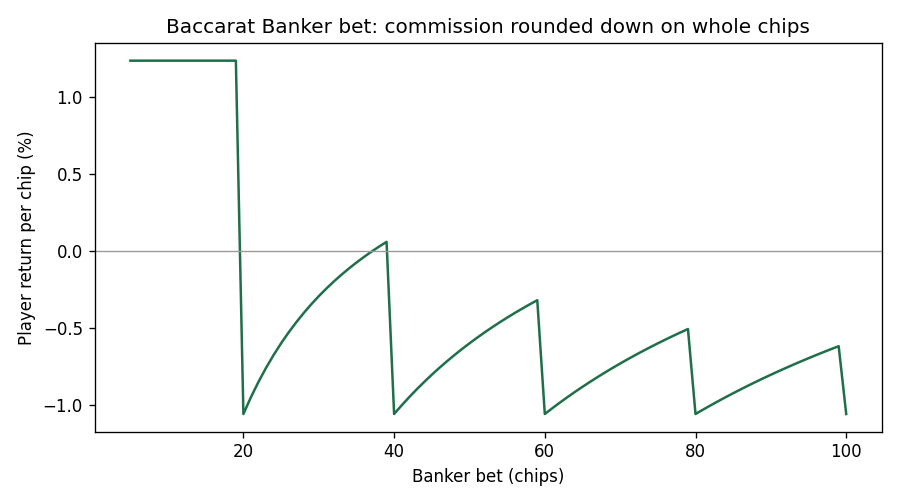
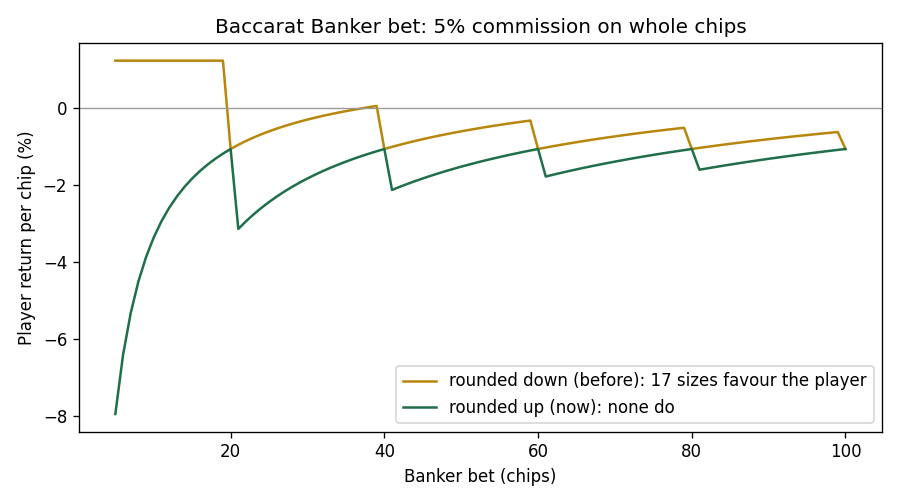
Round the baccarat commission up: no Banker bet favours the player
Rounding the 5% commission down to whole chips made Banker bets of 5-19
chips commission-free (+1.24% to the player, 17 bet sizes in favour). Now
it rounds up; multiples of 20 keep the exact -1.06%. The simulation and
chart compare both roundings, and a test checks every bet size up to 2000.

diff --git a/sim/baccarat_edge.py b/sim/baccarat_edge.py
@@ -8,9 +8,10 @@ drawn without replacement, and the engine's own `player_draws` /
 
 A Monte Carlo run with the engine's `play_hand` checks the enumeration.
 
-Finding: the engine rounds the 5% commission DOWN on whole chips, so on a
-Banker bet of 5 to 19 chips the commission is 0 and the bet favours the
-player. The edge is reported for several bet sizes.
+Finding: an earlier version of the engine rounded the 5% commission DOWN to
+whole chips, so a Banker bet of 5 to 19 chips paid no commission and favoured
+the player. The engine now rounds up; both roundings are reported here and
+plotted against the bet size.
 """
 
 import random
@@ -80,10 +81,15 @@ def outcome_probabilities(decks=DECKS):
     return probs
 
 
-def edges(probs, bet=100):
+def round_down(won):
+    """The old rule, kept for comparison."""
+    return won * BANKER_COMMISSION // 100
+
+
+def edges(probs, bet=100, rule=commission):
     """Expected return per chip bet on each box (negative = house edge)."""
     pp, pb, pt = probs["player"], probs["banker"], probs["tie"]
-    banker_win = (bet - commission(bet)) / bet
+    banker_win = (bet - rule(bet)) / bet
     return {
         # Player and Banker are returned on a tie
         "player": pp - pb,
@@ -110,28 +116,40 @@ def main(mc_hands=200_000):
     probs = outcome_probabilities()
     edge = edges(probs)
     mc = monte_carlo(mc_hands)
-    by_bet = {bet: edges(probs, bet)["banker"] for bet in (5, 10, 19, 20, 25, 50, 100, 1000)}
+    sizes = (5, 10, 19, 20, 25, 39, 50, 100, 1000)
+    by_bet = {bet: edges(probs, bet)["banker"] for bet in sizes}
+    by_bet_old = {bet: edges(probs, bet, round_down)["banker"] for bet in sizes}
+    favoured_old = [b for b in range(5, 2001) if edges(probs, b, round_down)["banker"] > 0]
+    favoured_now = [b for b in range(5, 2001) if edges(probs, b)["banker"] > 0]
 
     print("Baccarat (8 decks, exact):")
     for k in ("banker", "player", "tie"):
         print(f"  P({k}) = {probs[k]:.6f}   Monte Carlo {mc[k]:.4f}   "
               f"return per chip {pct(edge[k], 3)}")
-    print("  Banker return by bet size (commission rounded down):")
-    for bet, e in by_bet.items():
-        print(f"    bet {bet:>5}: {pct(e, 3)}")
+    print("  Banker return by bet size:        rounded up (now)   rounded down (before)")
+    for bet in sizes:
+        print(f"    bet {bet:>5}: {pct(by_bet[bet], 3):>28} {pct(by_bet_old[bet], 3):>18}")
+    print(f"  bet sizes 5-2000 that favour the player: {len(favoured_now)} now,"
+          f" {len(favoured_old)} before")
 
     fig, ax = figure("baccarat_banker_by_bet")
     bets = list(range(5, 101))
-    ax.plot(bets, [100 * edges(probs, b)["banker"] for b in bets], color="#1f6f4a")
+    ax.plot(bets, [100 * edges(probs, b, round_down)["banker"] for b in bets],
+            color="#b8860b", label="rounded down (before): 17 sizes favour the player")
+    ax.plot(bets, [100 * edges(probs, b)["banker"] for b in bets], color="#1f6f4a",
+            label="rounded up (now): none do")
     ax.axhline(0, color="#999", lw=0.8)
     ax.set_xlabel("Banker bet (chips)")
     ax.set_ylabel("Player return per chip (%)")
-    ax.set_title("Baccarat Banker bet: commission rounded down on whole chips")
+    ax.set_title("Baccarat Banker bet: 5% commission on whole chips")
+    ax.legend()
     save(fig)
 
     return save_json("baccarat", {
         "decks": DECKS, "probabilities": probs, "return_per_chip": edge,
-        "banker_return_by_bet": by_bet, "monte_carlo": {"hands": mc_hands, **mc},
+        "banker_return_by_bet": by_bet, "banker_return_by_bet_round_down": by_bet_old,
+        "bet_sizes_favouring_player": {"round_up": favoured_now, "round_down": favoured_old},
+        "monte_carlo": {"hands": mc_hands, **mc},
         "commission_pct": BANKER_COMMISSION, "tie_pays": TIE_PAYOUT,
     })
 

diff --git a/aceroyale/baccarat/rules.py b/aceroyale/baccarat/rules.py
@@ -15,8 +15,8 @@ What you need to know about the game:
     fixed tables.
   - Points: the ace is worth 1, 2 to 9 their face value, the 10 and the face
     cards 0. The hand is worth the last digit of the sum (7 + 8 = 15 -> 5).
-  - Payouts: Player 1:1. Banker 1:1 minus a 5 % commission, rounded down
-    (winning with 100 pays 95). Tie 8:1. On a tie, whatever was bet on Player
+  - Payouts: Player 1:1. Banker 1:1 minus a 5 % commission, rounded up
+    to whole chips (winning with 100 pays 95). Tie 8:1. On a tie, whatever was bet on Player
     and on Banker is returned.
 """
 
@@ -168,8 +168,15 @@ def play_hand(draw):
 # --------------------------------------------------------------- payouts
 
 def commission(won: int) -> int:
-    """5 % of what is won on Banker, rounded down."""
-    return won * BANKER_COMMISSION // 100
+    """
+    5 % of what is won on Banker, rounded UP to whole chips.
+
+    Rounding down made Banker bets of 5 to 19 chips commission-free, and
+    those favoured the player (+1.24 %): betting small on Banker over and over
+    beat the house. Rounded up, no bet size favours the player; on multiples
+    of 20 the 5 % is exact.
+    """
+    return -(-won * BANKER_COMMISSION // 100)
 
 
 def payout(bet: str, amount: int, winner: str) -> int:

diff --git a/tests/test_baccarat.py b/tests/test_baccarat.py
@@ -73,9 +73,18 @@ def test_hands():
 def test_payouts():
     assert payout("player", 100, "player") == 200, "Player 1:1"
     assert payout("banker", 100, "banker") == 195, "Banker 1:1 minus 5%"
-    assert payout("banker", 5, "banker") == 10, \
-        "the commission on 5 rounds down to 0"
-    assert payout("banker", 30, "banker") == 59, "the commission on 30 is 1"
+    assert payout("banker", 5, "banker") == 9, \
+        "the commission on 5 rounds up to 1"
+    assert payout("banker", 30, "banker") == 58, "the commission on 30 is 2"
+    assert payout("banker", 20, "banker") == 39, "on 20 the 5% is exact"
+
+
+def test_no_banker_bet_favours_the_player():
+    # Exact outcome probabilities of an 8-deck shoe (see sim/baccarat_edge.py)
+    p_banker, p_player = 0.458597, 0.446247
+    favoured = [n for n in range(1, 2001)
+                if p_banker * (payout("banker", n, "banker") - n) / n - p_player > 0]
+    assert not favoured, favoured[:10]
     assert payout("tie", 10, "tie") == 90, "Tie 8:1"
     assert payout("player", 50, "tie") == 50, "a tie returns Player"
     assert payout("banker", 50, "tie") == 50, "a tie returns Banker"

diff --git a/README.md b/README.md
@@ -135,7 +135,7 @@ played. `python -m sim.test_sim` checks the simulators against the engine.
 |---|---|---|
 | Blackjack, basic strategy (6 decks, S17, DAS, 3:2) | **-0.42% ± 0.07%** | 10M simulated rounds, 95% CI |
 | Blackjack, same strategy, infinite deck | -0.57% | exact, dynamic programming |
-| Baccarat, Banker (bets of 20+) | **-1.06%** | exact enumeration of the 8-deck shoe |
+| Baccarat, Banker (multiples of 20) | **-1.06%** | exact enumeration of the 8-deck shoe |
 | Baccarat, Player | -1.24% | exact |
 | Baccarat, Tie (8:1) | -14.36% | exact |
 | Three Card Poker, Ante/Play (optimal: play Q-6-4+) | **-3.37%** per Ante | exact, all 22,100 x 18,424 hand pairs |
@@ -143,12 +143,13 @@ played. `python -m sim.test_sim` checks the simulators against the engine.
 
 Two findings from checking the engine's rules rather than textbook ones:
 
-- **Baccarat commission rounding is exploitable.** The 5% commission is
-  rounded down to whole chips, so a Banker bet of 5 to 19 chips pays no
-  commission at all and returns **+1.24%** to the player. Above that the edge
-  saw-tooths with every whole chip of commission (a bet of 39 still pays only
-  1 chip and returns +0.06%); in all, 17 bet sizes favour the player. A fix
-  is to round the commission up.
+- **Baccarat commission rounding was exploitable, and is now fixed.** The 5%
+  commission used to be rounded down to whole chips, so a Banker bet of 5 to
+  19 chips paid no commission at all and returned **+1.24%** to the player;
+  17 bet sizes favoured the player in all. The engine now rounds up, and no
+  bet size does. The price is paid by small odd bets (a 5-chip Banker bet
+  gives up 1 chip of its 5-chip win: -7.94%), while multiples of 20 keep the
+  exact -1.06%.
 - **Pair Plus pays a flush 4:1.** That is the generous paytable (-2.32%); the
   common 3:1 version is -7.28%. And unlike most casinos, folding here also
   loses the Pair Plus bet, which never matters with optimal play (you never
